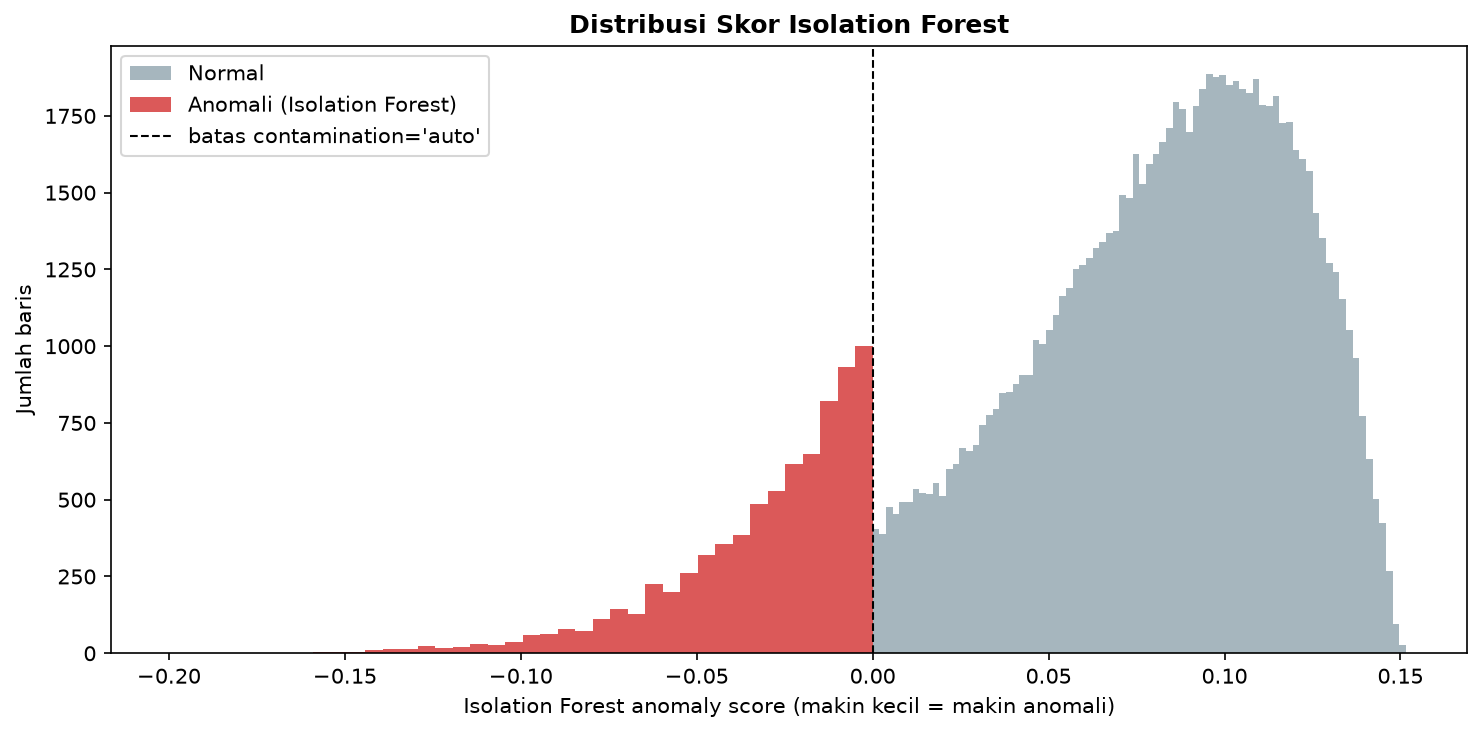
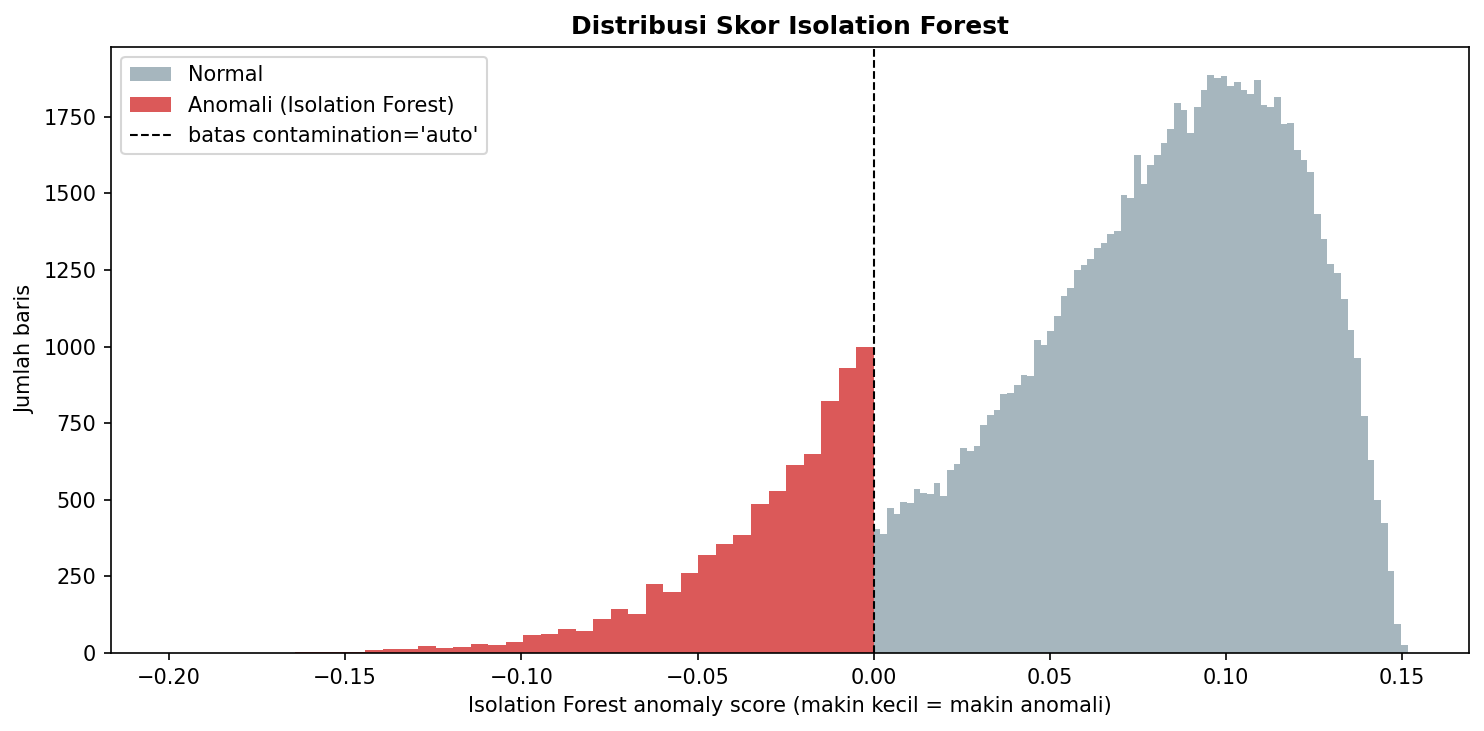
fix:ui-dashboard-tablebug

diff --git a/dashboard/app.py b/dashboard/app.py
@@ -40,10 +40,14 @@ pio.templates['spacex'] = go.layout.Template(
             bgcolor='#ffffff', bordercolor='#000000',
             font=dict(family=PLOT_FONT, color=PLOT_INK, size=12)
         ),
+        # automargin + standoff: sumbu memesan ruangnya sendiri, jadi label tidak
+        # pernah terpotong dan judul sumbu tidak menabrak angka tick.
         xaxis=dict(gridcolor=PLOT_GRID, zerolinecolor=PLOT_HAIRLINE,
-                   linecolor=PLOT_HAIRLINE, tickfont=dict(color=PLOT_INK_MUTE)),
+                   linecolor=PLOT_HAIRLINE, tickfont=dict(color=PLOT_INK_MUTE),
+                   automargin=True, title=dict(standoff=14, font=dict(color=PLOT_INK_MUTE, size=12))),
         yaxis=dict(gridcolor=PLOT_GRID, zerolinecolor=PLOT_HAIRLINE,
-                   linecolor=PLOT_HAIRLINE, tickfont=dict(color=PLOT_INK_MUTE)),
+                   linecolor=PLOT_HAIRLINE, tickfont=dict(color=PLOT_INK_MUTE),
+                   automargin=True, title=dict(standoff=14, font=dict(color=PLOT_INK_MUTE, size=12))),
     )
 )
 pio.templates.default = 'spacex'
@@ -130,6 +134,25 @@ except Exception as e:
 def fmt_count(value):
     """Format current artifact counts in the Indonesian dashboard style."""
     return f"{int(value):,}".replace(",", ".")
+
+
+def wrap_label(text, width=20):
+    """Pecah label sumbu jadi beberapa baris TANPA mengubah kata-katanya.
+
+    Label tipologi yang panjang membuat automargin memesan >250px di kiri
+    sehingga batang grafik tergencet. Dipecah per baris, teksnya tetap utuh
+    dan terbaca penuh tapi kolom labelnya jauh lebih ramping.
+    """
+    lines, current = [], ""
+    for word in text.split():
+        if current and len(current) + 1 + len(word) > width:
+            lines.append(current)
+            current = word
+        else:
+            current = f"{current} {word}".strip()
+    if current:
+        lines.append(current)
+    return "<br>".join(lines)
 
 
 def priority_typology_count(typology):
@@ -339,16 +362,18 @@ def tab_segmentation():
             showlegend=False
         ), row=1, col=2)
         fig_diff.update_yaxes(range=[0, 3.1], title_text='kali pendapatan', row=1, col=1,
+                              automargin=True, title_standoff=10, tickfont=dict(size=10),
                               showgrid=True, gridcolor=PLOT_GRID)
         # Sumbu-y LTV dimulai dari 0 (bukan di-zoom) supaya kemiripan ketiganya terlihat
         # apa adanya -- memotong sumbu akan membesar-besarkan selisih 2 poin persen.
         fig_diff.update_yaxes(range=[0, 100], title_text='% nilai rumah', row=1, col=2,
+                              automargin=True, title_standoff=10, tickfont=dict(size=10),
                               showgrid=True, gridcolor=PLOT_GRID)
         fig_diff.update_xaxes(tickfont=dict(size=10))
         fig_diff.update_layout(
             paper_bgcolor='rgba(0,0,0,0)', plot_bgcolor='rgba(0,0,0,0)',
             font=dict(color=PLOT_INK, family=PLOT_FONT),
-            margin=dict(l=10, r=10, t=70, b=10), bargap=0.45
+            margin=dict(l=8, r=8, t=76, b=8), bargap=0.45
         )
         for ann in fig_diff['layout']['annotations'][:2]:
             ann['font'] = dict(size=12, color=PLOT_INK)
@@ -409,7 +434,7 @@ def tab_segmentation():
             dbc.Col(html.Div(className="glass-card h-100", children=[
                 html.H4("Proporsi Tiap Segmen Nasabah"),
                 html.P("Lebih dari 4 dari 10 nasabah berada di segmen Kelas Menengah.", className="small text-muted mb-2"),
-                dcc.Graph(figure=fig_donut, config={'displayModeBar': False}, style={'height': '320px'})
+                dcc.Graph(figure=fig_donut, config={'displayModeBar': False}, responsive=True, style={'height': '320px'})
             ]), width=4),
             dbc.Col(html.Div(className="glass-card h-100", children=[
                 html.H4("Peta Posisi Nasabah (Cluster Map)"),
@@ -418,7 +443,7 @@ def tab_segmentation():
                     "Ketiga warna ini adalah tiga 'dunia' yang berbeda di dalam pasar yang sama.",
                     className="small text-muted mb-2"
                 ),
-                dcc.Graph(figure=fig_pca, config={'displayModeBar': False}, style={'height': '320px'}),
+                dcc.Graph(figure=fig_pca, config={'displayModeBar': False}, responsive=True, style={'height': '320px'}),
                 html.P(
                     "Peta 2D ini adalah proyeksi PCA dari 14 fitur asli — 2 dimensi ini hanya menangkap ±27,9% dari total variasi data (PC1 15,3% + PC2 12,6%). "
                     "Artinya: pemisahan warna yang terlihat di sini justru KONSERVATIF — cluster sebenarnya lebih terpisah di ruang 14 dimensi daripada yang tampak di 2D ini.",
@@ -436,7 +461,7 @@ def tab_segmentation():
                     html.B("Data kami menunjukkan itu tidak benar."),
                     " Grafik kiri dan kanan memakai skala yang sama-sama dimulai dari nol, jadi bisa dibandingkan apa adanya:"
                 ], className="small text-muted mb-2"),
-                dcc.Graph(figure=fig_diff, config={'displayModeBar': False}, style={'height': '340px'}),
+                dcc.Graph(figure=fig_diff, config={'displayModeBar': False}, responsive=True, style={'height': '340px'}),
                 html.P([
                     html.B("Cara membacanya: "),
                     "Grup 3 (paling kaya, pendapatan $207.565) hanya meminjam ", html.B("1,53x"),
@@ -528,11 +553,12 @@ def tab_arm_visualization():
             paper_bgcolor='rgba(0,0,0,0)',
             plot_bgcolor='rgba(0,0,0,0)',
             font=dict(color=PLOT_INK, family=PLOT_FONT),
-            margin=dict(l=60, r=20, t=10, b=60),
+            margin=dict(l=8, r=8, t=16, b=8),
             coloraxis_colorbar=dict(
-                title=dict(text='Skor<br>Peluang', font=dict(size=12)),
+                title=dict(text='Skor<br>Peluang', font=dict(size=11), side='top'),
                 ticksuffix='',
                 len=0.65,
+                x=1.02, xpad=6,
                 thickness=14,
                 outlinewidth=0
             ),
@@ -542,7 +568,8 @@ def tab_arm_visualization():
                 gridcolor=PLOT_GRID,
                 gridwidth=1,
                 zeroline=False,
-                title=dict(text='Jangkauan Pasar (% dari Total Nasabah)', font=dict(size=13)),
+                title=dict(text='Jangkauan Pasar (% dari Total Nasabah)', font=dict(size=12), standoff=14),
+                automargin=True,
                 tickfont=dict(size=11)
             ),
             yaxis=dict(
@@ -551,7 +578,8 @@ def tab_arm_visualization():
                 gridcolor=PLOT_GRID,
                 gridwidth=1,
                 zeroline=False,
-                title=dict(text='Tingkat Kepastian Pola (%)', font=dict(size=13)),
+                title=dict(text='Tingkat Kepastian Pola (%)', font=dict(size=12), standoff=14),
+                automargin=True,
                 tickfont=dict(size=11),
                 range=[55, 105]
             )
@@ -693,11 +721,11 @@ def tab_arm_visualization():
                     html.B("Makin besar & terang"),
                     " = makin kuat peluang bisnisnya."
                 ], className="small text-muted mb-2"),
-                dcc.Graph(figure=fig_arm, config={'displayModeBar': False}, style={'height': '520px'})
+                dcc.Graph(figure=fig_arm, config={'displayModeBar': False}, responsive=True, style={'height': '520px'})
             ]), width=6),
             dbc.Col(html.Div(className="glass-card mb-4", children=[
                 html.H4("10 Pola Perilaku Nasabah Terkuat"),
-                dcc.Graph(figure=fig_network, config={'displayModeBar': False}, style={'height': '500px'}),
+                dcc.Graph(figure=fig_network, config={'displayModeBar': False}, responsive=True, style={'height': '500px'}),
                 html.P([
                     html.Span("●", style={'color': '#1d4ed8'}), " Kondisi → ",
                     html.Span("●", style={'color': '#0f766e'}), " Hasil"
@@ -746,13 +774,18 @@ def tab_distributions():
             data_col = data_col[(data_col >= q01) & (data_col <= q99)]
             fig = px.histogram(
                 data_col, nbins=50,
-                color_discrete_sequence=[d['color']],
-                labels={d['col']: '', 'count': 'Jumlah Pengajuan'}
+                color_discrete_sequence=[d['color']]
             )
+            # px menerima Series polos sehingga judul sumbunya jatuh ke default
+            # "value"/"count" -- diset eksplisit sesuai maksud semula.
+            fig.update_xaxes(title_text='', tickfont=dict(size=10))
+            fig.update_yaxes(title_text='Jumlah Pengajuan', tickfont=dict(size=10),
+                             title_font=dict(size=11))
             fig.update_layout(
                 paper_bgcolor='rgba(0,0,0,0)', plot_bgcolor='rgba(0,0,0,0)',
                 font=dict(color=PLOT_INK, family=PLOT_FONT),
-                margin=dict(l=10, r=10, t=5, b=10), showlegend=False
+                margin=dict(l=8, r=16, t=8, b=8), showlegend=False,
+                bargap=0.04
             )
             d['fig'] = fig
     else:
@@ -764,7 +797,7 @@ def tab_distributions():
         cards.append(
             dbc.Col(html.Div(className="glass-card mb-4", children=[
                 html.H5(d['label'], style={'color': d['color']}),
-                dcc.Graph(figure=d['fig'], config={'displayModeBar': False}, style={'height': '200px'}),
+                dcc.Graph(figure=d['fig'], config={'displayModeBar': False}, responsive=True, style={'height': '240px'}),
                 html.Hr(style={'borderColor': '#e0e0e8', 'margin': '12px 0'}),
                 html.P(html.B("Apa yang terlihat: "), className="mb-1 small"),
                 html.P(d['insight'], className="small text-muted mb-2"),
@@ -787,9 +820,11 @@ def tab_distributions():
 def tab_4_anomalies():
     # Bar chart untuk tipologi
     if not anomaly_counts.empty:
+        plot_counts = anomaly_counts.copy()
+        plot_counts['Tipologi_Wrap'] = plot_counts['Tipologi_Indo'].map(wrap_label)
         fig_bar = px.bar(
-            anomaly_counts, 
-            y='Tipologi_Indo', 
+            plot_counts,
+            y='Tipologi_Wrap',
             x='Jumlah',
             orientation='h',
             color='Tipologi',
@@ -806,10 +841,20 @@ def tab_4_anomalies():
             plot_bgcolor='rgba(0,0,0,0)',
             font=dict(color=PLOT_INK, family=PLOT_FONT),
             showlegend=False,
-            margin=dict(l=20, r=20, t=20, b=20)
+            margin=dict(l=8, r=8, t=16, b=8),
+            bargap=0.35
         )
-        fig_bar.update_yaxes(title="")
-        fig_bar.update_traces(texttemplate='%{text}', textposition='outside')
+        fig_bar.update_yaxes(title="", tickfont=dict(size=11))
+        # Headroom 18% supaya label angka di ujung bar (textposition='outside')
+        # tidak terpotong tepi kanan.
+        fig_bar.update_xaxes(
+            title_text='Jumlah Kasus', tickfont=dict(size=10),
+            range=[0, anomaly_counts['Jumlah'].max() * 1.18]
+        )
+        fig_bar.update_traces(
+            texttemplate='%{text}', textposition='outside', cliponaxis=False,
+            textfont=dict(size=11, color=PLOT_INK)
+        )
     else:
         fig_bar = go.Figure()
 
@@ -866,9 +911,15 @@ def tab_4_anomalies():
     fig_outlier.update_layout(
         paper_bgcolor='rgba(0,0,0,0)', plot_bgcolor='rgba(0,0,0,0)',
         font=dict(color=PLOT_INK, family=PLOT_FONT),
-        margin=dict(l=10, r=10, t=10, b=120),
-        legend=dict(orientation='h', yanchor='top', y=-0.2, xanchor='center', x=0.5),
-        xaxis_title='Pendapatan Nasabah (Income)', yaxis_title='Nilai Pinjaman (Loan Amount)'
+        margin=dict(l=8, r=16, t=16, b=8),
+        # Legenda didorong cukup jauh ke bawah agar tidak menimpa judul sumbu-x;
+        # automargin yang menyediakan ruangnya, bukan margin bawah hardcoded.
+        legend=dict(orientation='h', yanchor='top', y=-0.22, xanchor='center', x=0.5,
+                    font=dict(size=11)),
+        xaxis=dict(title=dict(text='Pendapatan Nasabah (Income)', standoff=16),
+                   tickfont=dict(size=10)),
+        yaxis=dict(title=dict(text='Nilai Pinjaman (Loan Amount)', standoff=16),
+                   tickfont=dict(size=10))
     )
 
     return html.Div(className="tab-content", children=[
@@ -898,7 +949,7 @@ def tab_4_anomalies():
             dbc.Col(html.Div(className="glass-card h-100", children=[
                 html.H4("Tingkat Kepercayaan Sistem (Tier)"),
                 html.P("Semakin banyak metode yang menangkap kejanggalan, semakin tinggi prioritas kasus tersebut.", className="small text-muted mb-2"),
-                dcc.Graph(figure=fig_tier, config={'displayModeBar': False}, style={'height': '300px'})
+                dcc.Graph(figure=fig_tier, config={'displayModeBar': False}, responsive=True, style={'height': '300px'})
             ]), width=5),
             dbc.Col(html.Div(className="glass-card h-100", children=[
                 html.H4("Bagaimana Sistem Menangkap Anomali?"),
@@ -925,11 +976,11 @@ def tab_4_anomalies():
             dbc.Col(html.Div(className="glass-card mb-4 h-100", children=[
                 html.H4(f"Posisi {fmt_count(len(df_priority))} Nasabah Paling Janggal vs Normal"),
                 html.P("Titik berwarna adalah kasus prioritas. Titik abu-abu adalah data normal. Terlihat jelas anomali berada di luar pola umum.", className="small text-muted mb-2"),
-                dcc.Graph(figure=fig_outlier, config={'displayModeBar': False}, style={'height': '420px'})
+                dcc.Graph(figure=fig_outlier, config={'displayModeBar': False}, responsive=True, style={'height': '420px'})
             ]), width=7),
             dbc.Col(html.Div(className="glass-card h-100", children=[
                 html.H4("Pengelompokan Jenis Kasus Prioritas"),
-                dcc.Graph(figure=fig_bar, config={'displayModeBar': False}, style={'height': '420px'})
+                dcc.Graph(figure=fig_bar, config={'displayModeBar': False}, responsive=True, style={'height': '420px'})
             ]), width=5),
         ], className="mb-4"),
         
@@ -1025,18 +1076,21 @@ def build_crossphase_heatmap():
                        'Porsi di segmen ini: %{customdata:.1f}%<br>'
                        'Konsentrasi: %{z:.2f}x populasi<extra></extra>'),
         colorbar=dict(
-            title=dict(text='Konsentrasi', font=dict(size=11)),
+            # Judul dipasang di sisi bar (bukan di atasnya) supaya tidak
+            # bertabrakan dengan tick teratas yang dua baris.
+            title=dict(text='Konsentrasi', font=dict(size=11), side='right'),
             tickvals=[0.5, 1.0, 1.5, 2.0],
             ticktext=['0,5x<br>kurang', '1,0x<br>merata', '1,5x', '2,0x<br>menumpuk'],
-            tickfont=dict(size=9), len=0.9, thickness=14, outlinewidth=0
+            tickfont=dict(size=9), len=0.78, y=0.5, yanchor='middle',
+            thickness=14, outlinewidth=0
         )
     ))
     fig.update_layout(
         paper_bgcolor='rgba(0,0,0,0)', plot_bgcolor='rgba(0,0,0,0)',
         font=dict(color=PLOT_INK, family=PLOT_FONT),
-        margin=dict(l=10, r=10, t=10, b=10),
-        xaxis=dict(side='top', tickfont=dict(size=10)),
-        yaxis=dict(tickfont=dict(size=10), autorange='reversed')
+        margin=dict(l=8, r=8, t=8, b=8),
+        xaxis=dict(side='top', tickfont=dict(size=10), automargin=True),
+        yaxis=dict(tickfont=dict(size=10), autorange='reversed', automargin=True)
     )
     return fig
 
@@ -1219,7 +1273,7 @@ def tab_strategic_recommendations():
                     "ke setiap pola perilaku (dari ARM) dan setiap kasus anomali (dari Anomaly Detection), lalu mengukur ",
                     html.B("di segmen mana masing-masing benar-benar menumpuk"), "."
                 ], className="small text-muted mb-2"),
-                dcc.Graph(figure=fig_cross, config={'displayModeBar': False}, style={'height': '420px'}),
+                dcc.Graph(figure=fig_cross, config={'displayModeBar': False}, responsive=True, style={'height': '420px'}),
                 html.P([
                     html.B("Cara membacanya: "),
                     "1,00x berarti tersebar merata mengikuti besar populasi segmen. Di atas 1,25x (warna oranye/merah) berarti "
@@ -1292,8 +1346,9 @@ def tab_methodology():
     fig_sil.update_layout(
         paper_bgcolor='rgba(0,0,0,0)', plot_bgcolor='rgba(0,0,0,0)',
         font=dict(color=PLOT_INK, family=PLOT_FONT),
-        margin=dict(l=10, r=10, t=10, b=10), showlegend=False,
-        yaxis=dict(title='Silhouette Score', range=[0, 0.19], showgrid=True, gridcolor=PLOT_GRID),
+        margin=dict(l=8, r=8, t=16, b=8), showlegend=False,
+        yaxis=dict(title=dict(text='Silhouette Score', standoff=12), range=[0, 0.19],
+                   showgrid=True, gridcolor=PLOT_GRID, automargin=True),
         xaxis=dict(showgrid=False)
     )
 
@@ -1351,7 +1406,7 @@ def tab_methodology():
         dbc.Row([
             dbc.Col(html.Div(className="glass-card h-100", children=[
                 html.H5("Kenapa K=3? (Silhouette Score per K)", className="mb-3"),
-                dcc.Graph(figure=fig_sil, config={'displayModeBar': False}, style={'height': '260px'}),
+                dcc.Graph(figure=fig_sil, config={'displayModeBar': False}, responsive=True, style={'height': '260px'}),
                 html.P("Catatan jujur: nilai absolut ~0,15 tergolong sedang (bukan pemisahan tajam >0,5) — wajar untuk data finansial kontinu yang tumpang-tindih alami. K=3 adalah pilihan RELATIF TERBAIK, bukan klaim cluster terpisah sempurna.", className="small text-muted mt-2 mb-0")
             ]), width=12),
         ], className="mb-4"),
